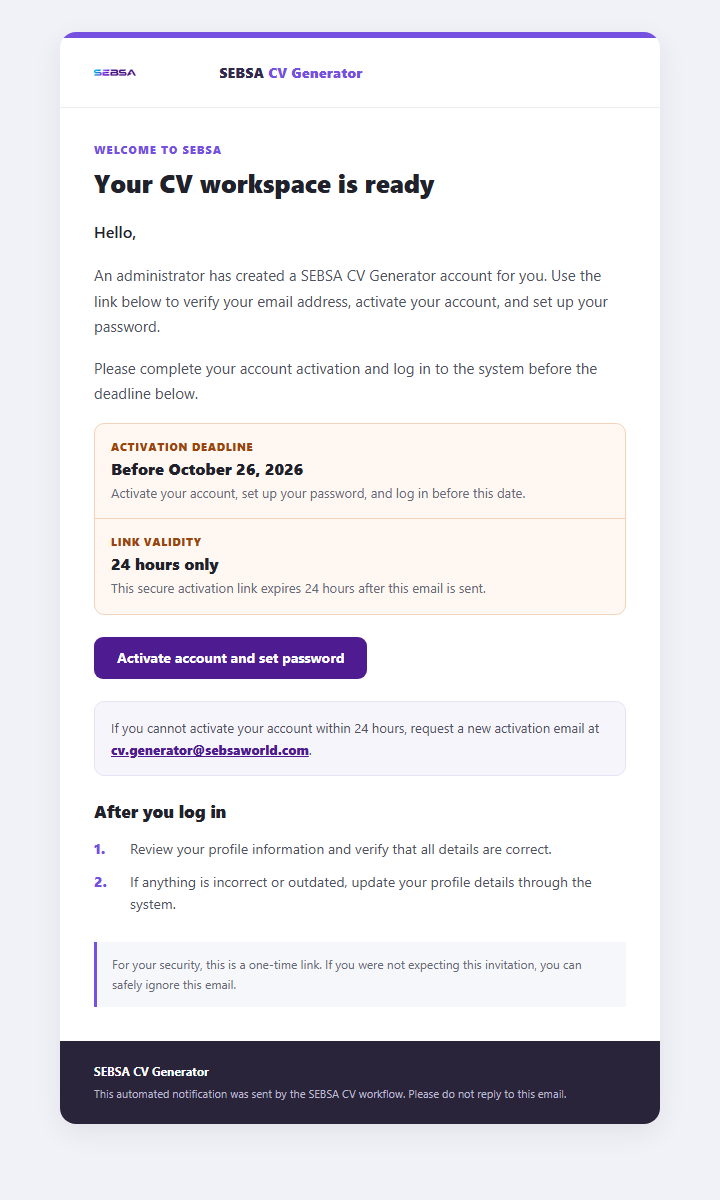
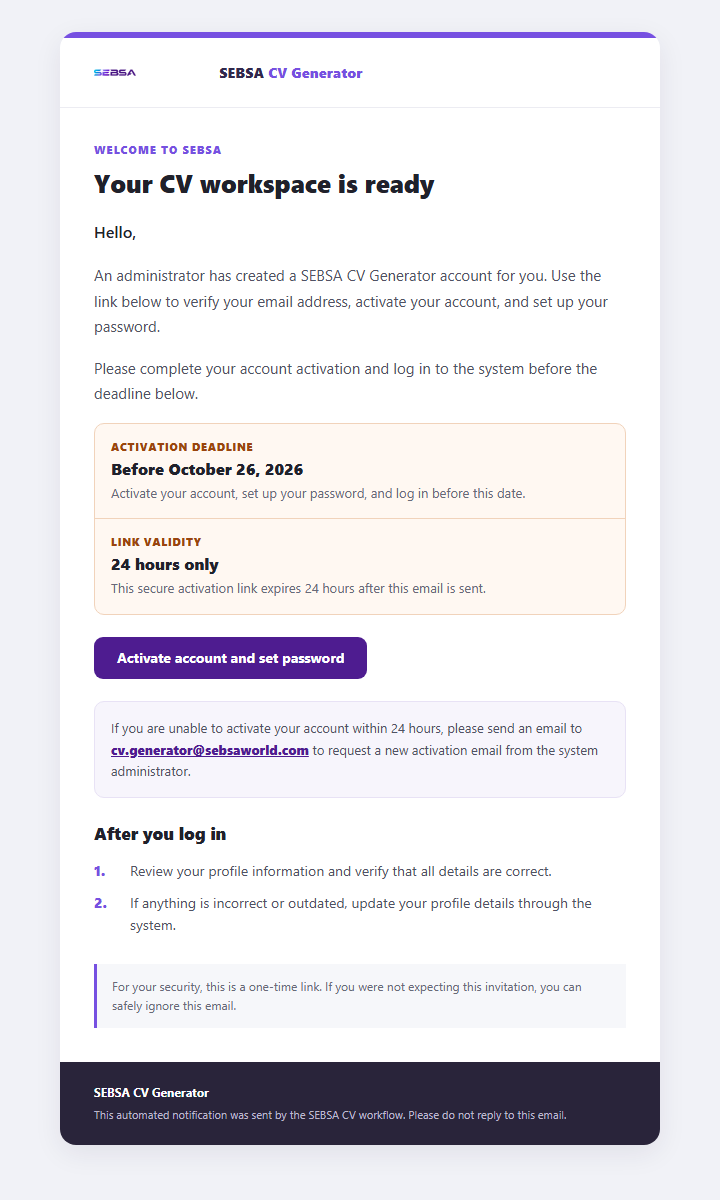
template wording chnage

Changed region(s): [[0.0611, 0.8017, 0.9167, 0.9558], [0.1222, 0.5858, 0.825, 0.7708]]

diff --git a/lib/email/templates.ts b/lib/email/templates.ts
@@ -22,6 +22,7 @@ interface BrandedEmailInput {
   support?: {
     message: string;
     email: string;
+    afterEmail?: string;
   };
   nextSteps?: {
     heading: string;
@@ -87,7 +88,7 @@ function renderBrandedEmail(input: BrandedEmailInput): string {
     ? `<table role="presentation" width="100%" cellspacing="0" cellpadding="0" border="0" style="margin:22px 0 0;border-collapse:separate;background:#F7F5FC;border:1px solid #E8E2F5;border-radius:10px;">
         <tr><td style="padding:15px 16px;color:#505264;font-size:13px;line-height:1.65;">
           ${escapeHtml(input.support.message)}
-          <a href="mailto:${escapeHtml(input.support.email)}" style="color:#4E1C90;text-decoration:underline;font-weight:800;word-break:break-word;">${escapeHtml(input.support.email)}</a>.
+          <a href="mailto:${escapeHtml(input.support.email)}" style="color:#4E1C90;text-decoration:underline;font-weight:800;word-break:break-word;">${escapeHtml(input.support.email)}</a>${input.support.afterEmail ? ` ${escapeHtml(input.support.afterEmail)}` : ''}.
         </td></tr>
       </table>`
     : '';
@@ -158,7 +159,9 @@ function content(subject: string, input: BrandedEmailInput): EmailContent {
       (highlight) => `${highlight.label}: ${highlight.value}${highlight.description ? ` — ${highlight.description}` : ''}`
     ) ?? []),
     `${input.ctaLabel}: ${input.ctaUrl}`,
-    input.support ? `${input.support.message} ${input.support.email}.` : undefined,
+    input.support
+      ? `${input.support.message} ${input.support.email}${input.support.afterEmail ? ` ${input.support.afterEmail}` : ''}.`
+      : undefined,
     input.nextSteps ? `${input.nextSteps.heading}\n${input.nextSteps.items.map((item, index) => `${index + 1}. ${item}`).join('\n')}` : undefined,
     input.note,
     `This automated notification was sent by ${brandName}.`,
@@ -200,8 +203,9 @@ export function buildEmployeeInviteEmail(actionLink: string, isResend: boolean):
       ctaLabel: 'Activate account and set password',
       ctaUrl: actionLink,
       support: {
-        message: 'If you cannot activate your account within 24 hours, request a new activation email at',
+        message: 'If you are unable to activate your account within 24 hours, please send an email to',
         email: 'cv.generator@sebsaworld.com',
+        afterEmail: 'to request a new activation email from the system administrator',
       },
       nextSteps: {
         heading: 'After you log in',
